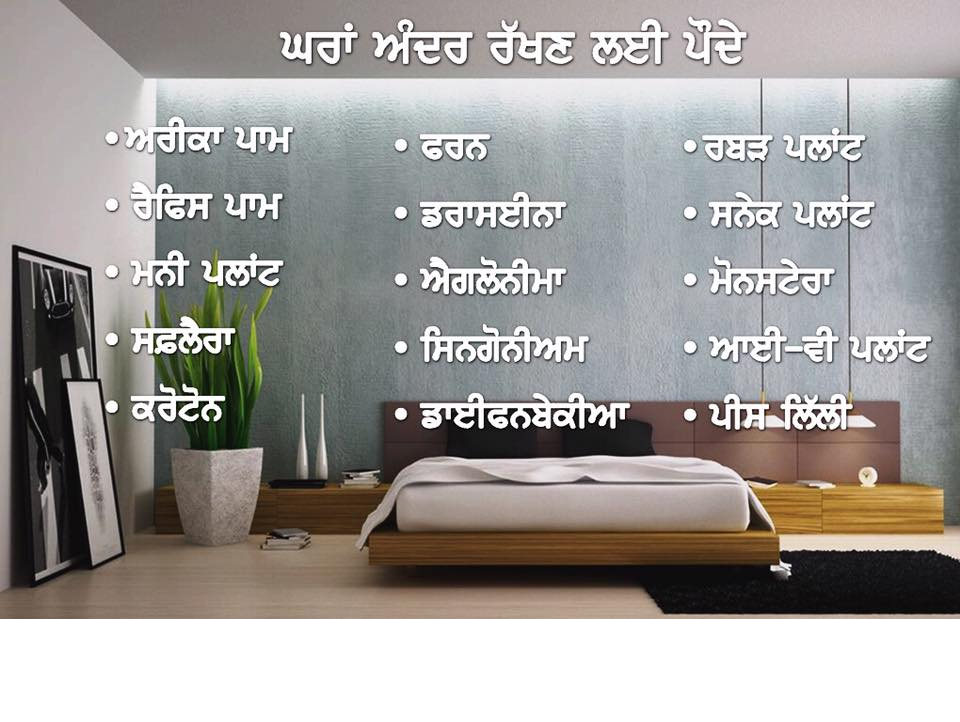
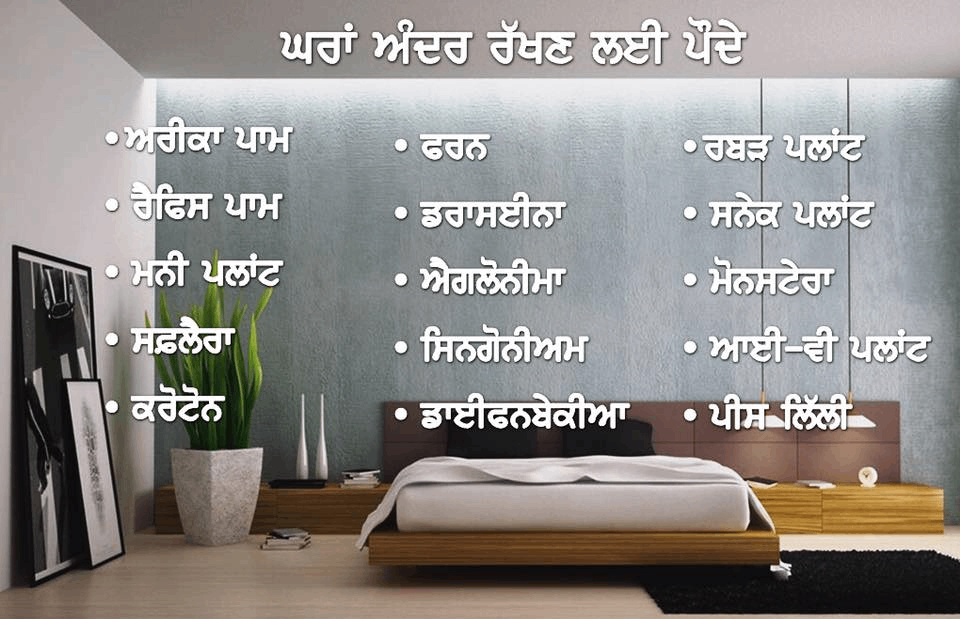
Fixed responsiveness of the website and layout, optimized images, changed color scheme

diff --git a/src/components/Gallery/Gallery.js b/src/components/Gallery/Gallery.js
@@ -9,41 +9,52 @@ import trees_info_6 from '../../assets/trees_info_6.png';
 import how_to_plant_a_tree from '../../assets/How to Plant a Tree.docx';
 
 const contact_us = () => (
-    <div style={{color: '#777', backgroundColor: 'rgb(224, 213, 180)', fontFamily: 'Roboto' }} id="resources">
-        <div className="row">
-            <div className="col-md-12">
-                <div className="gallery">
-                    <h2>Gallery</h2><br></br>
-                    <a target="_blank" href={trees_info_1}>
-                        <img src={trees_info_1} className="gallery-img" />
+    <div style={{color: '#777', backgroundColor: 'rgb(224, 213, 180)', padding: '30px 0' }} id="resources">
+        <div className="container">
+            <div className="row">
+                <div className="col-md-12 text-center mb-2">
+                    <h2 style={{color: "#000"}}>Gallery</h2>
+                </div>
+            </div>
+            <div className="row">
+                <div className="col-lg-4 col-md-6 col-sm-12">
+                    <a target="_blank" href={trees_info_1} className="d-block mb-5 h-100">
+                        <img src={trees_info_1} className="img-fluid img-thumbnail rounded mx-auto" />
                     </a>
-                    <a target="_blank" href={trees_info_2}>
-                        <img src={trees_info_2} className="gallery-img" />
+                </div>
+                <div className="col-lg-4 col-md-6 col-sm-12">
+                    <a target="_blank" href={trees_info_2} className="d-block mb-5 h-100">
+                        <img src={trees_info_2} className="img-fluid img-thumbnail rounded mx-auto" />
                     </a>
-                    <a target="_blank" href={trees_info_3}>
-                        <img src={trees_info_3} className="gallery-img" />
+                </div>
+                <div className="col-lg-4 col-md-6 col-sm-12">
+                    <a target="_blank" href={trees_info_3} className="d-block mb-5 h-100">
+                        <img src={trees_info_3} className="img-fluid img-thumbnail rounded mx-auto" />
                     </a>
-                    <br></br>
-                    <a target="_blank" href={trees_info_4}>
-                        <img src={trees_info_4} className="gallery-img" />
+                </div>
+                <div className="col-lg-4 col-md-6 col-sm-12">
+                    <a target="_blank" href={trees_info_4} className="d-block mb-5 h-100">
+                        <img src={trees_info_4} className="img-fluid img-thumbnail rounded mx-auto" />
                     </a>
-                    <a target="_blank" href={trees_info_5}>
-                        <img src={trees_info_5} className="gallery-img" />
+                </div>
+                <div className="col-lg-4 col-md-6 col-sm-12">
+                    <a target="_blank" href={trees_info_5} className="d-block mb-5 h-100">
+                        <img src={trees_info_5} className="img-fluid img-thumbnail rounded mx-auto" />
                     </a>
-                    <a target="_blank" href={trees_info_6}>
-                        <img src={trees_info_6} className="gallery-img" />
+                </div>
+                <div className="col-lg-4 col-md-6 col-sm-12">
+                    <a target="_blank" href={trees_info_6} className="d-block mb-5 h-100">
+                        <img src={trees_info_6} className="img-fluid img-thumbnail rounded mx-auto" />
                     </a>
-                    <br></br>
-                    <br></br>
-
+                </div>
+            </div>
+            <div className="row">
+                <div className="col-md-12 text-center">
                     <a href={how_to_plant_a_tree} download>
-                        <button type="button" className="btn btn-primary btn-lg">
-                            <i class="fa fa-download"></i>  How to Plant a Tree
+                        <button type="button" className="btn btn-primary btn-lg ">
+                            <i class="fa fa-download"></i>  &nbsp;How to Plant a Tree
                         </button>
                     </a>
-
-                    <br></br>
-                    <br></br>
                 </div>
             </div>
         </div>

diff --git a/src/components/Footer/Donate/Donate.js b/src/components/Footer/Donate/Donate.js
@@ -3,23 +3,23 @@ import './Donate.css';
 
 const donate = () => (
     <div id="contact-us">
-        <h2 style={{color: 'rgb(0, 147, 181)', fontFamily: 'Open Sans'}}>Donation Information</h2><br></br>
+        <h2 style={{color: '#A8C545', fontFamily: 'BlinkMacSystemFont, "Open Sans"'}}>Donation Information</h2><br></br>
         <div className="row">
-            <div className="col">
-                <h4>Pay by Cheque/NEFT</h4><br></br>
-                <h5>Account in India</h5>
+            <div className="col-sm-12 col-md-4 mb-4" style={{fontSize: ".9rem"}}>
+                <h5>Pay by Cheque/NEFT</h5><br></br>
+                <h6 style={{textDecoration:"underline"}}>Account in India</h6>
                 EcoSikh Charitable Society<br></br>
                 A/c No: 039088700000014<br></br>
                 Bank Name: Yes Bank Ltd, Miller Ganj, Ludhiana<br></br>
                 IFSC Code: YESB0000390
             </div>
-            <div className="col">
-                <h4>For online donations outside India</h4>
-                <a href="https://tinyurl.com/yalw6dv2" target="_blank"><h4>Donate Online</h4></a>
+            <div className="col-sm-12 col-md-4 mb-4">
+                <h5>For online donations outside India</h5><br></br>
+                <a href="https://tinyurl.com/yalw6dv2" class="btn btn-primary btn-lg" role="button" aria-pressed="true" target="_blank">Donate Online</a>
 
             </div>
-            <div className="col">
-                <h4>Pay by Cheque in United States of America (USA)</h4><br></br>
+            <div className="col-sm-12 col-md-4 mb-4" style={{fontSize: ".9rem"}}>
+                <h5>Pay by Cheque in United States of America (USA)</h5><br></br>
                 EcoSikh<br></br>
                 2621 University Boulevard West<br></br>
                 Silver Spring, MD 20902

diff --git a/src/components/Parallax/Parallax.js b/src/components/Parallax/Parallax.js
@@ -12,14 +12,13 @@ const parallax = () => (
         <div className="bgimg-1">
             <div class="flex-container">
                 <div>
-                    <img src={message_2} style={{height: '15vh', width: '45vw', paddingLeft: '8%'}}/>
+                    <img src={message_2} className="text1"/>
                 </div>
                 <div>
-                    <img src={message_3} style={{height: '7vh', width: '35vw', paddingLeft: '8%'}}/>
+                    <img src={message_3} className="text2"/>
                 </div>
                 <div>
-                    <button className="btn btn-primary btn-lg"
-                            style={{fontSize: '1.0vw', width: '11vw', fontWeight: '800'}}
+                    <button className="btn btn-primary btn-lg sign-up-btn"
                             type="submit">SIGN UP</button>
                 </div>
             </div>
@@ -28,8 +27,10 @@ const parallax = () => (
         <AboutEcoSikh/>
 
         <div className="bgimg-4">
-            <div className="video-container">
-                <iframe width="853" height="480" src="https://www.youtube.com/embed/1fbNsC3jlFU" frameBorder="0"></iframe>
+            <div className="container">
+                <div className="video-container">
+                    <iframe width="853" height="480" src="https://www.youtube.com/embed/1fbNsC3jlFU" frameBorder="0"></iframe>
+                </div>
             </div>
         </div>
 

diff --git a/src/components/AboutEcoSikh/AboutEcoSikh.js b/src/components/AboutEcoSikh/AboutEcoSikh.js
@@ -2,8 +2,10 @@ import React from 'react';
 import './AboutEcoSikh.css';
 const about_eco_sikh = () => (
     <div className="about" id="about-ecosikh">
-        <h3>About EcoSikh</h3>
-        <p>EcoSikh is a response from the Sikh community to the threats of climate change and the deterioration of the natural environment. Our organization arose as part of the Long Term Plans for Generational Change programme initiated in 2009 by the United Nations Development Programme (UNDP) and the Alliance of Religions and Conservation, UK (ARC) to help the world’s major religious traditions create long-term plan to improve their relationship with the environment and to guide their investment towards environmental protection.</p>
+        <div className="container">
+            <h3>About EcoSikh</h3>
+            <p className="text-justify">EcoSikh is a response from the Sikh community to the threats of climate change and the deterioration of the natural environment. Our organization arose as part of the Long Term Plans for Generational Change programme initiated in 2009 by the United Nations Development Programme (UNDP) and the Alliance of Religions and Conservation, UK (ARC) to help the world’s major religious traditions create long-term plan to improve their relationship with the environment and to guide their investment towards environmental protection.</p>
+        </div>
     </div>
 );
 

diff --git a/src/components/Footer/ContactUs/ContactUs.js b/src/components/Footer/ContactUs/ContactUs.js
@@ -2,16 +2,16 @@ import React from 'react';
 import './ContactUs.css';
 
 const contact_us = () => (
-    <div id="contact-us">
-        <h2 style={{color: 'rgb(0, 147, 181)', fontFamily: 'Open Sans'}}>Contact Us</h2><br></br>
+    <div id="contact-us" className="mb-4">
+        <h2 style={{color: '#A8C545', fontFamily: 'BlinkMacSystemFont, "Open Sans"'}}>Contact Us</h2><br></br>
         <div>
-            <i className="fas fa-phone" style={{color: '#77a6a3'}}></i>  +91 84273 19268
-            &nbsp; &nbsp; | &nbsp; &nbsp;
-            <i className="fas fa-envelope" style={{color: '#77a6a3'}}></i>  info@ecosikh.org
+            <i className="fas fa-phone" style={{color: '#77a6a3'}}></i>  <a href="tel:+91 84273 19268" style={{color:"#fff"}}>+91 84273 19268</a>
+            &nbsp; | &nbsp;
+            <i className="fas fa-envelope" style={{color: '#77a6a3'}}></i>  <a href="mailto:info@ecosikh.org" style={{color:"#fff"}}>info@ecosikh.org</a>
             <br></br>
             <br></br>
             <a href="https://www.facebook.com/EcoSikh/" target="_blank">
-                <button type="button" className="btn btn-primary btn-sm">
+                <button type="button" className="btn btn-primary btn-sm" style={{backgroundColor: "#0069d9"}}>
                     <i class="fab fa-facebook fa-2x"></i>
                 </button>
             </a>

diff --git a/src/components/Parallax/Parallax.css b/src/components/Parallax/Parallax.css
@@ -39,6 +39,19 @@
   align-self: center;
 }
 
+.flex-container .text1 {
+  width: 45vw;
+  padding-left: 8%;
+}
+
+.flex-container .text2 {
+  width: 35vw;
+  padding-left: 8%;
+}
+.flex-container .sign-up-btn {
+  font-size: 1.2rem;
+}
+
 .youtube-container{
   display: flex;
   flex-direction: column;
@@ -146,12 +159,31 @@ p{
   height:0;
 }
 
+.video-container {
+  position: relative;
+  padding-bottom: 56.25%;
+  padding-top: 30px; height: 0; overflow: hidden;
+}
+
 .video-container iframe,
 .video-container object,
 .video-container embed {
-  left:0;
-  top:0;
-  height:100%;
-  width:100%;
-  position:absolute;
+  position: absolute;
+  top: 0;
+  left: 0;
+  width: 100%;
+  height: 100%;
+}
+
+@media screen and (max-width: 767px){
+  .flex-container {
+    padding-top: 35%;
+    padding-left: 0%;
+  }
+
+  .flex-container .text1,
+  .flex-container .text2 {
+    width: 100%;
+    padding-left: 0;
+  }
 }

diff --git a/src/components/Navigation/NavBar/NavBar.js b/src/components/Navigation/NavBar/NavBar.js
@@ -3,9 +3,9 @@ import gurunanak550logo from '../../../assets/logo_sm.png';
 import './NavBar.css';
 
 const navbar = (props) => (
-    <div>
-      <nav class="navbar navbar-expand-md navbar-dark fixed-top nav-color">
-          {/* <img src={{gurunanak550logo}} style={{width: '1%', height: '1%'}}/> */}
+    <nav class="navbar navbar-expand-md navbar-dark sticky-top nav-color">
+        {/* <img src={{gurunanak550logo}} style={{width: '1%', height: '1%'}}/> */}
+      <div className="container">
         <button class="navbar-toggler" type="button" data-toggle="collapse" data-target="#navbarsExampleDefault" aria-controls="navbarsExampleDefault" aria-expanded="false" aria-label="Toggle navigation">
           <span class="navbar-toggler-icon"></span>
         </button>
@@ -28,8 +28,8 @@ const navbar = (props) => (
           </ul>
 
         </div>
-      </nav>
-    </div>
+      </div>
+    </nav>
 
 
 

diff --git a/src/components/Footer/Footer.js b/src/components/Footer/Footer.js
@@ -3,13 +3,13 @@ import Donate from './Donate/Donate';
 import ContactUs from './ContactUs/ContactUs';
 import './Footer.css';
 const footer = () => (
-    <div>
-        <div className="footer">
+    <div className="footer">
+        <div className="container">
             <div className="row">
-                <div className="col">
+                <div className="col-xl-8 col-lg-12">
                     <Donate/>
                 </div>
-                <div className="col">
+                <div className="col-xl-4 col-lg-12">
                     <ContactUs/>
                 </div>
             </div>

diff --git a/src/components/AboutEcoSikh/AboutEcoSikh.css b/src/components/AboutEcoSikh/AboutEcoSikh.css
@@ -2,9 +2,8 @@
 
     background-color: rgb(224, 213, 180);
     align-items: center;
-    padding: 2vw 2vw;
+    padding: 30px 0;
     justify-content: center;
-    font-family: 'Open Sans';
 }
 
 .about h3{
@@ -12,5 +11,5 @@
 }
 
 .about p{
-    font-size: 1.25vw;
+    font-size: 1rem;
 }

diff --git a/src/index.css b/src/index.css
@@ -8,3 +8,10 @@ html {
   height: 100%;
   margin: 0;
 }
+
+/*Overwiding button color for color scheme*/
+.btn-primary {
+  color: #fff;
+  background-color: #0092B2;
+  border-color: #0092B2;
+}

diff --git a/src/components/Footer/ContactUs/ContactUs.css b/src/components/Footer/ContactUs/ContactUs.css
@@ -1,4 +1,3 @@
 #contact-us {
-    font-family: 'Roboto';
-
+    font-family: BlinkMacSystemFont, "Open Sans";
 }
